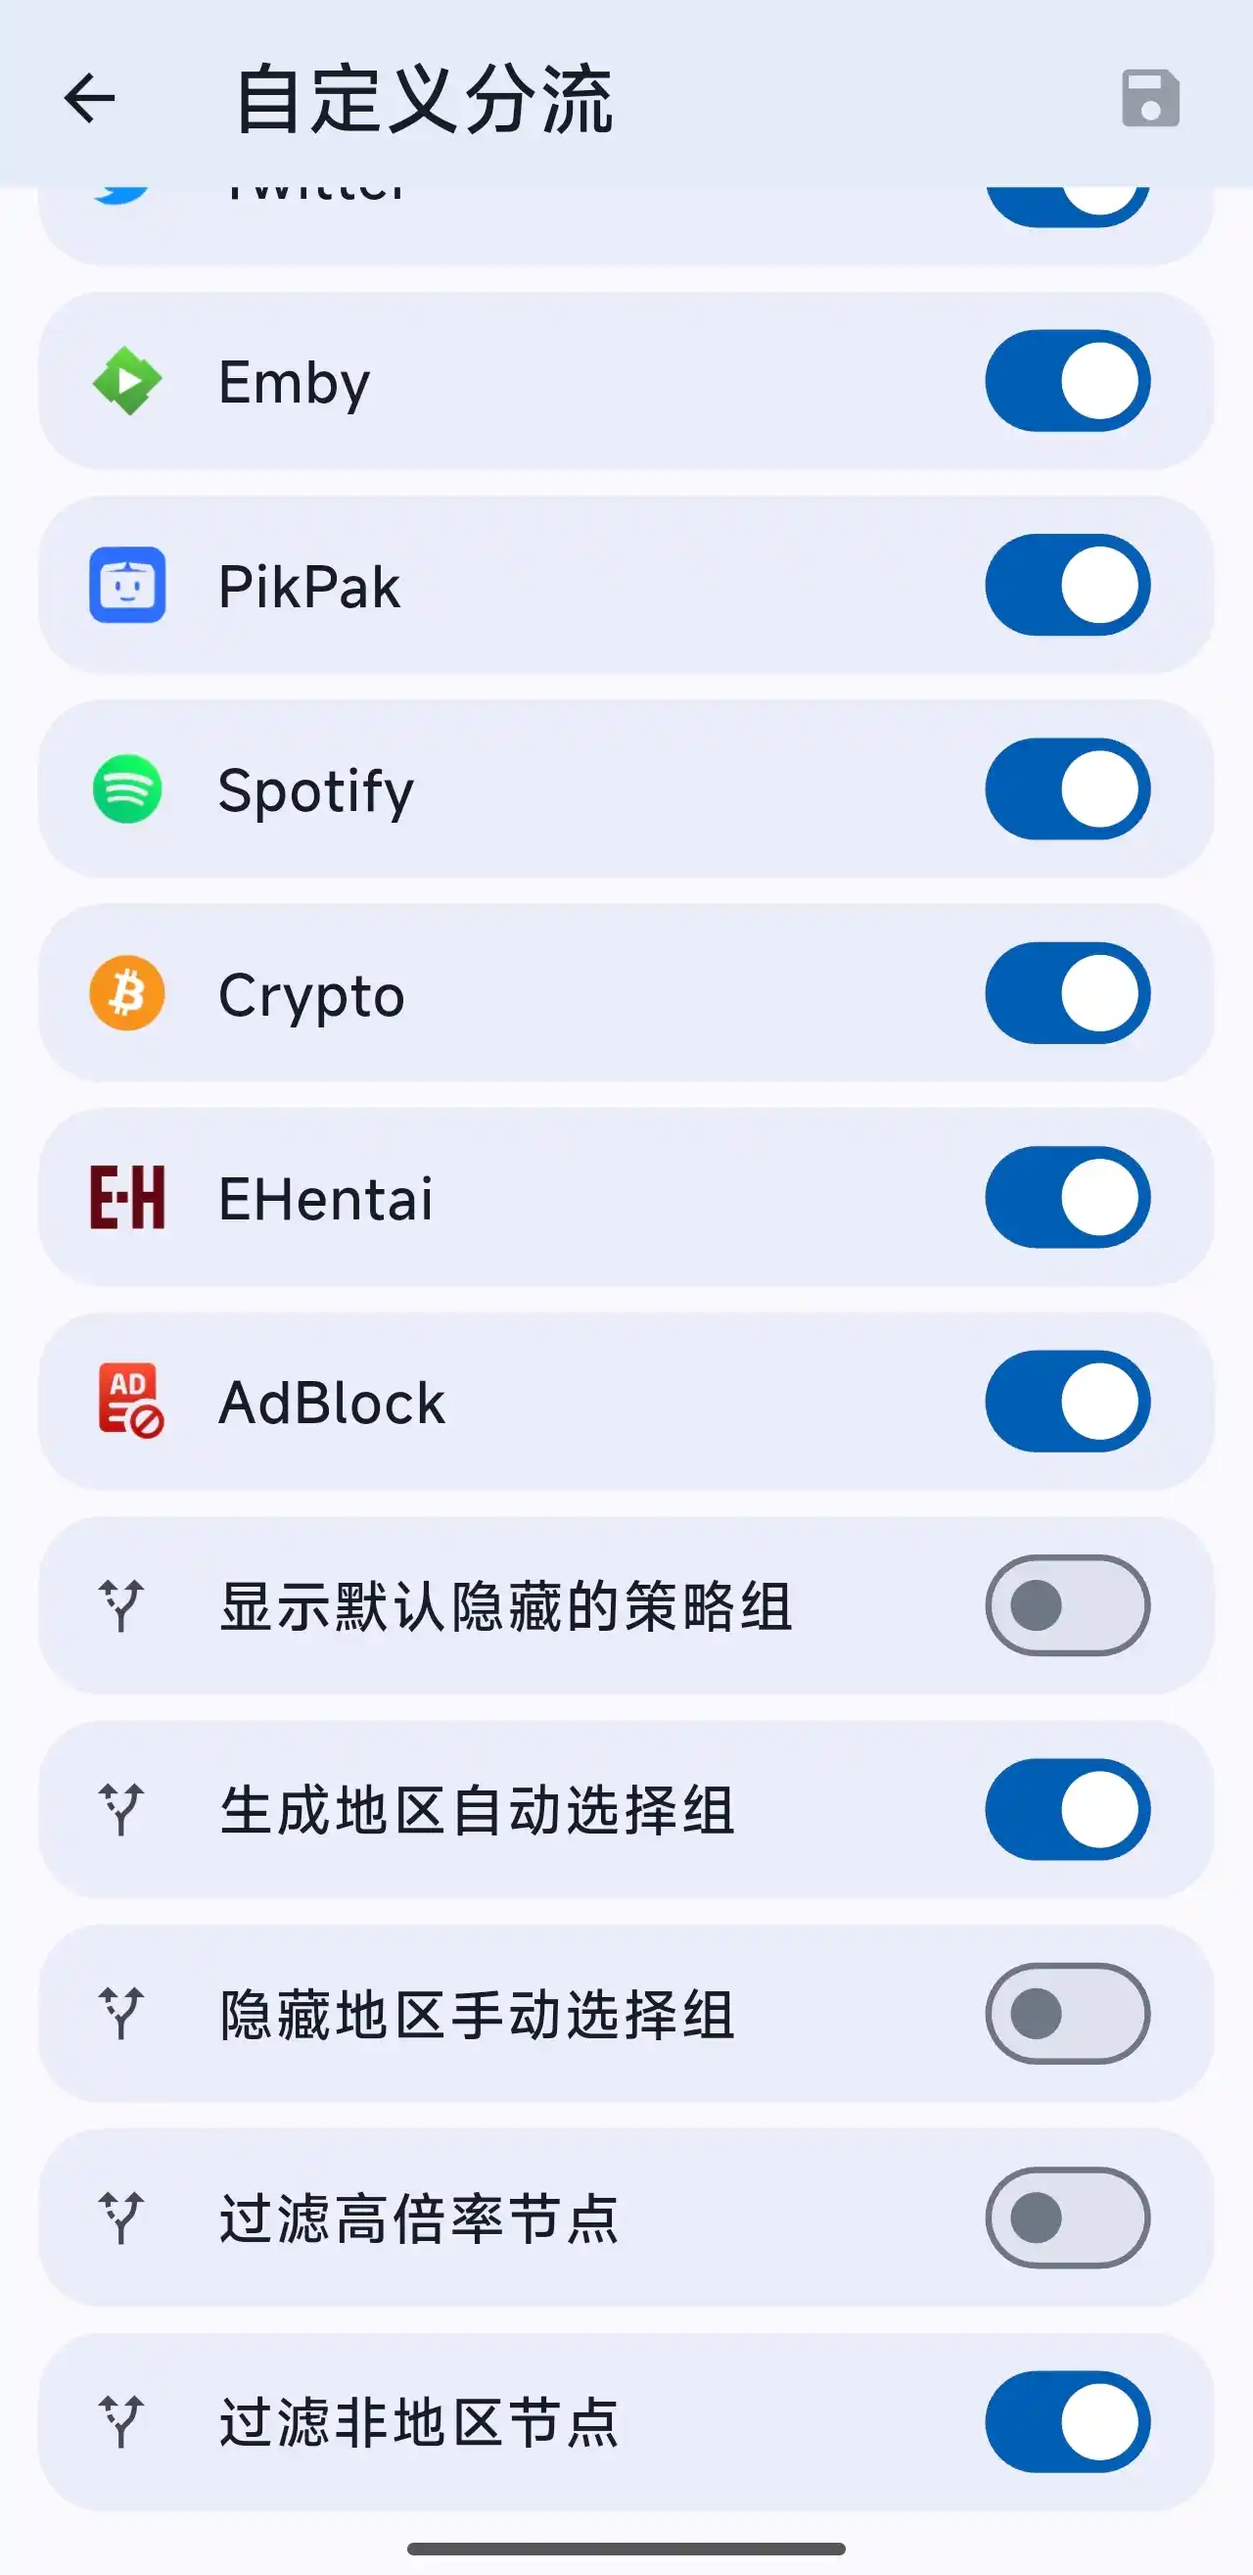
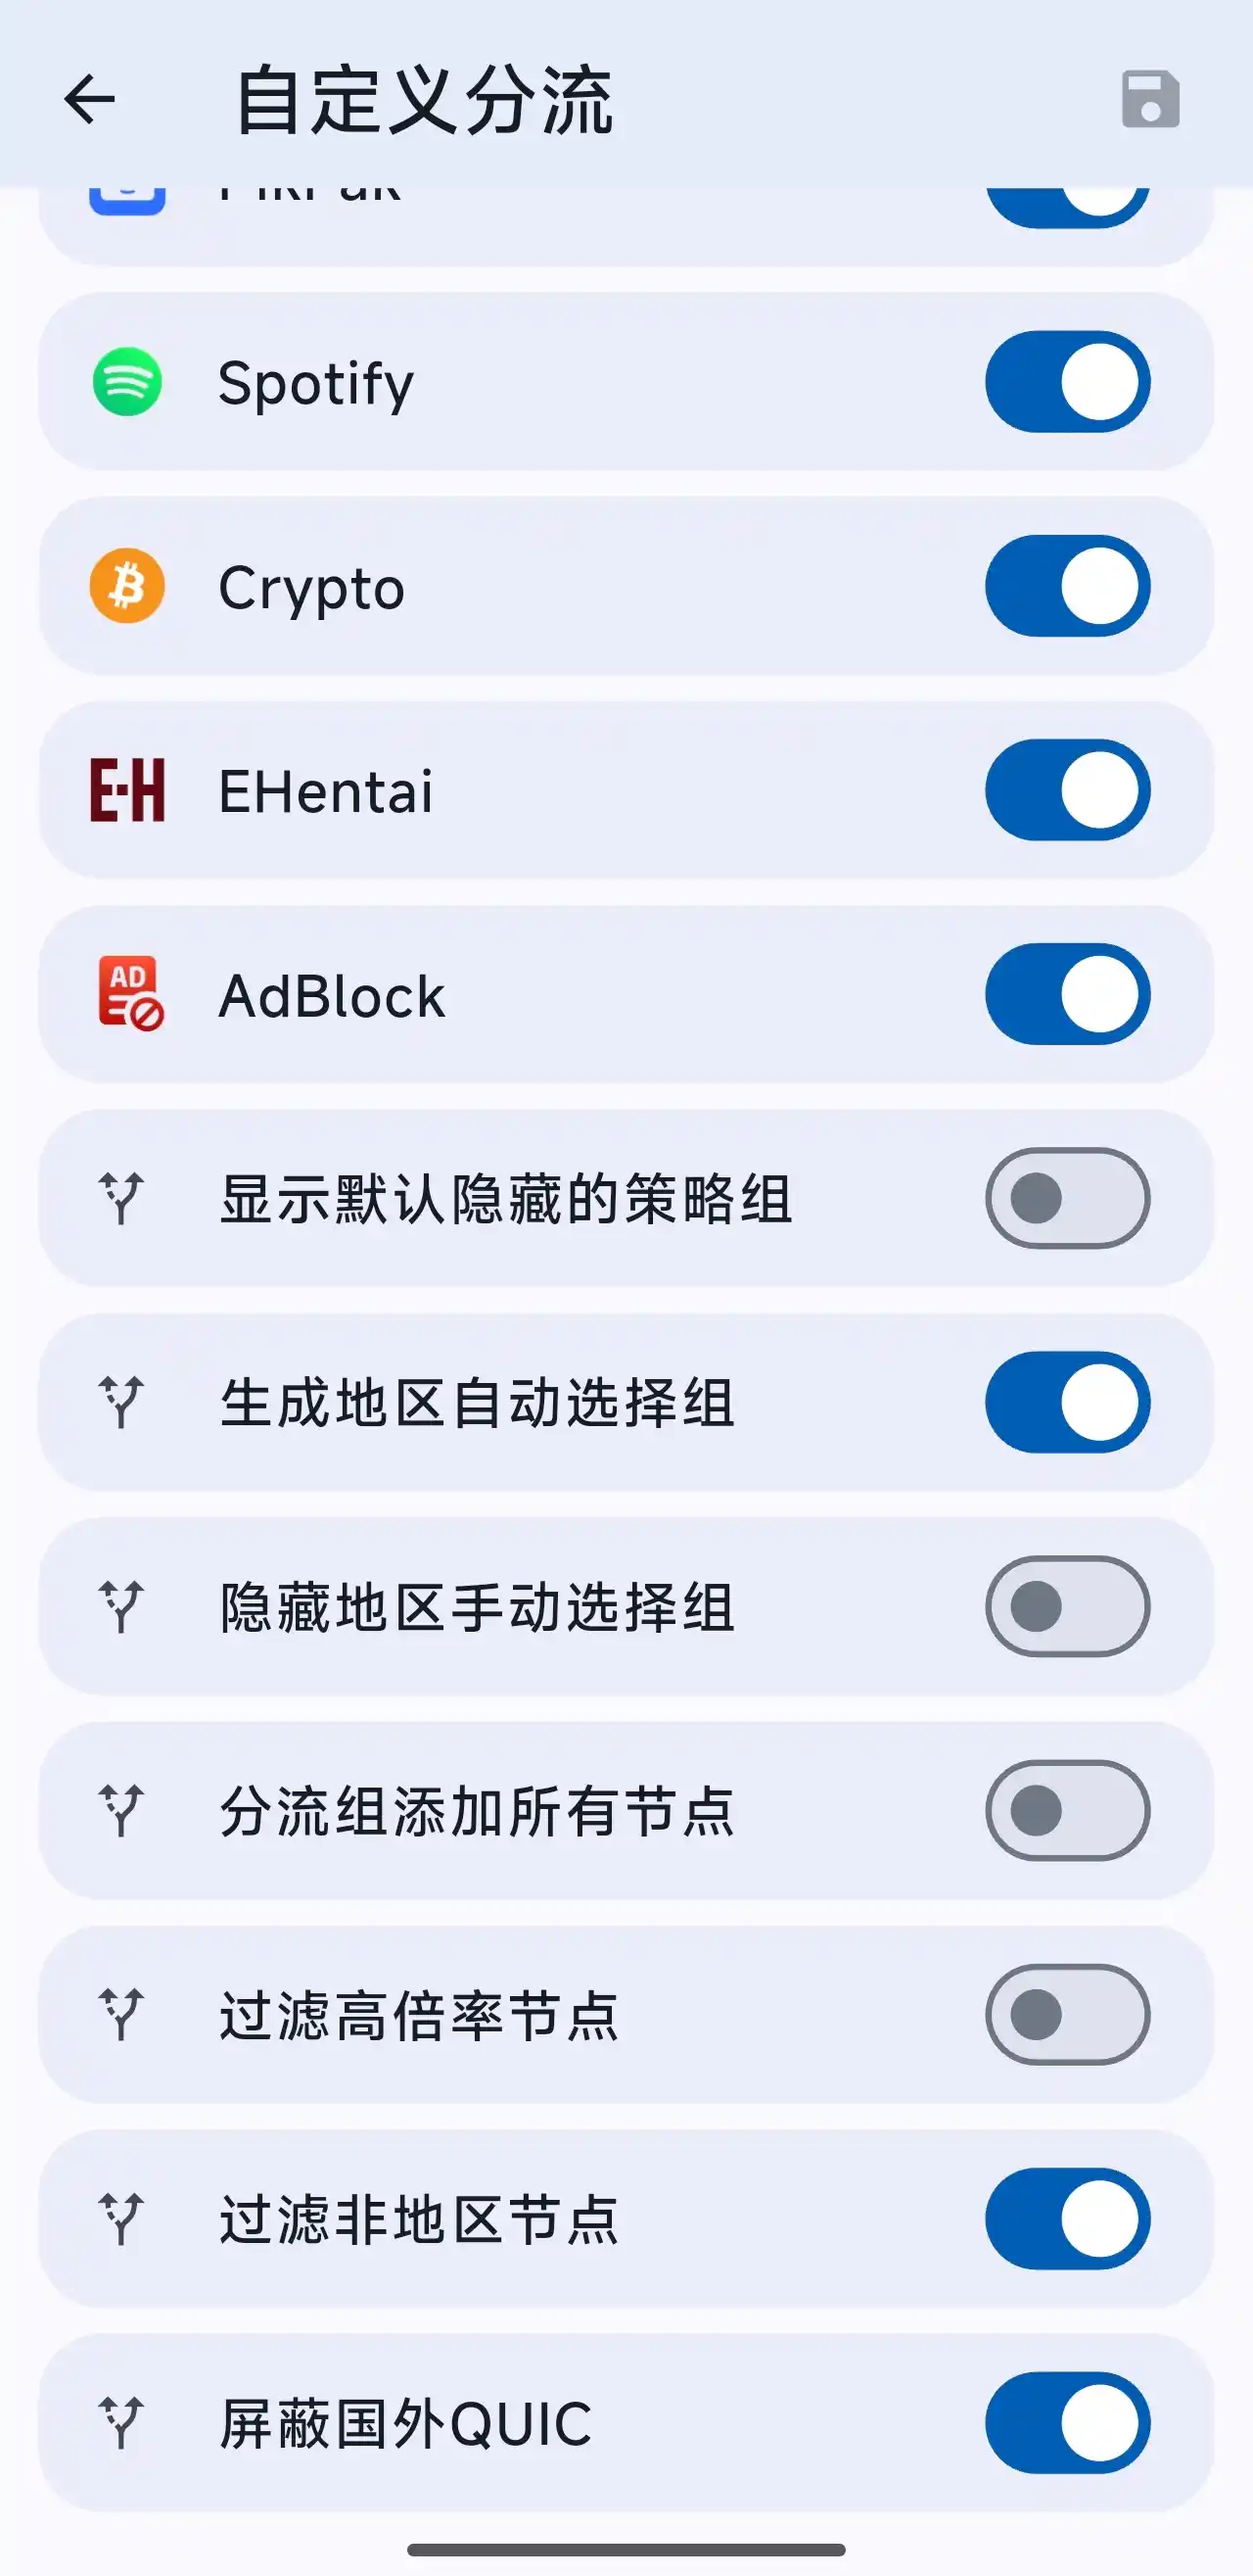
docs: update readme&images

diff --git a/README.md b/README.md
@@ -1,25 +1,42 @@
 # MyClash
 
-Mihomo（Clash Meta）配置文件和覆写脚本，分别提供全量版和精简版，无DNS泄露，内置多项分流策略、地区策略，实现全局排除节点、自动识别节点倍率功能，解决机场使用私有DNS导致无法解析节点域名的问题
+基于 [Mihomo](https://github.com/MetaCubeX/mihomo/tree/Alpha) 的配置文件与覆写脚本，提供全量版和精简版。
 
-友情推荐，非常好用、省电且内存占用低的代理软件：[Bettbox](https://github.com/appshubcc/Bettbox)
+主要特性：
 
-**覆写脚本已适配 Bettbox，可通过图形化界面自定义启用策略组或其他配置项，配合 Bettbox 使用体验更佳，具体可查看下方效果预览图6、图7。**
+- 内置多种分流策略与地区策略
+- 自动排除无效地区节点
+- 自动识别节点倍率并分类
+- 解决机场私有 DNS、hosts 导致节点域名无法解析的问题
+- 优化 DNS 配置，无 DNS 泄露风险
+- 支持 Bettbox 图形化配置管理
+
+友情推荐：
+[Bettbox](https://github.com/appshubcc/Bettbox) —— 一款轻量、省电、低内存占用的代理客户端。
+
+**覆写脚本已适配 Bettbox，可通过图形界面自定义启用策略组及配置选项，获得更灵活的使用体验，具体效果请查看下方效果预览图。**
+
+---
 
 ## 覆写脚本
 
+### 注意事项
+
 > [!IMPORTANT]
 >
-> - _注意⚠：该脚本仅适用于覆写机场提供的配置文件，请勿用于覆写自己编写的配置文件_
-> - _脚本已解决机场使用私有DNS或者将节点域名放入hosts导致无法解析节点域名的问题_
-> - _地区策略组根据是否匹配到节点来生成_
-> - _支持自定义是否显示默认隐藏的策略组（默认禁用）_
-> - _支持自定义是否生成地区自动选择策略组（默认启用）_
-> - _支持自定义是否隐藏地区手动选择策略组（默认禁用）_
-> - _支持自定义是否为分流策略组添加所有节点（默认禁用）_
-> - _支持自定义是否过滤高倍率节点（默认禁用）_
-> - _支持自定义是否过滤非地区节点（默认启用）_
-> - _支持自定义是否屏蔽国外QUIC流量（默认启用）_
+> ⚠该脚本仅用于覆写机场提供的配置文件，请勿用于覆写自行编写的配置
+
+### 脚本功能
+
+- ✅ 解决机场私有 DNS 或节点域名 hosts 映射导致的节点解析问题
+- ✅ 根据节点匹配情况动态生成地区策略组
+- ✅ 支持自定义是否显示默认隐藏策略组
+- ✅ 支持自定义是否生成地区自动选择策略组
+- ✅ 支持自定义是否隐藏地区手动选择策略组
+- ✅ 支持自定义是否将全部节点加入分流策略组
+- ✅ 支持自定义是否过滤高倍率节点
+- ✅ 支持自定义是否过滤非地区节点
+- ✅ 支持自定义是否屏蔽国外 QUIC 流量
 
 ### 使用方法（脚本）
 
@@ -43,13 +60,14 @@ https://raw.githubusercontent.com/AIsouler/MyClash/main/Script/Script.js
 
 ## 配置文件
 
-> [!IMPORTANT]
->
-> - _配置文件实现的效果和脚本基本一致_
-> - _不支持自定义 启用/禁用 配置项_
-> - _无法像脚本那样实现不生成未匹配到节点的策略组_
-> - _对于使用私有DNS或者将节点域名写入hosts的机场，需要手动将私有DNS和节点域名hosts填入到配置文件中_
-> - _未匹配到节点的策略组将回退到 REJECT_
+配置文件与脚本实现效果基本一致，但功能存在限制。
+
+### 限制
+
+- 不支持自定义启用/禁用配置项
+- 无法根据节点匹配情况动态生成策略组
+- 使用私有 DNS 或 hosts 节点域名映射的机场需要手动写入配置中
+- 未匹配地区的策略组将回退至 REJECT
 
 ### 使用方法（配置）
 
@@ -67,7 +85,7 @@ https://raw.githubusercontent.com/AIsouler/MyClash/main/Config/mihomoConfig.yaml
 https://raw.githubusercontent.com/AIsouler/MyClash/main/Config/mihomoConfigLite.yaml
 ```
 
-## 说明
+## 功能说明
 
 - 仅适用于使用 [mihomo 内核](https://github.com/MetaCubeX/mihomo/tree/Alpha) 的代理客户端
 
@@ -87,7 +105,7 @@ https://raw.githubusercontent.com/AIsouler/MyClash/main/Config/mihomoConfigLite.
 
 ## 内置策略组
 
-> - _若不需要某个分流策略组，可在脚本中将 `ruleOptionsEnable` 对应值设为 `false`_
+> - 若不需要某个分流策略组，可在脚本中将 `ruleOptionsEnable` 对应值设为 `false`
 
 - `默认代理`
 - `手动选择`
@@ -114,8 +132,8 @@ https://raw.githubusercontent.com/AIsouler/MyClash/main/Config/mihomoConfigLite.
 
 ## 内置节点组
 
-> - _所有组均为手动选择（select），内部包含对应的自动选择策略组_
-> - _未匹配到地区组的节点节点将归类至 「其他节点」_
+> - 所有组均为手动选择（select），内部包含对应的自动选择策略组
+> - 未匹配到地区组的节点节点将归类至 「其他节点」
 
 - `香港`
 - `日本`
